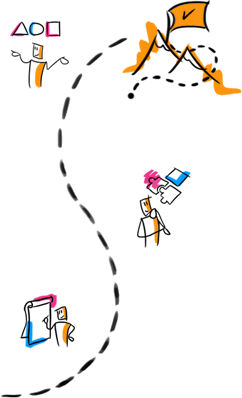
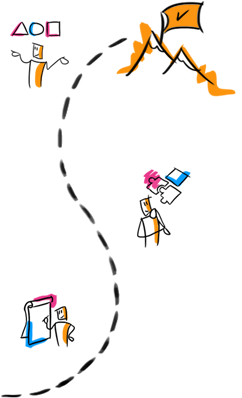
misc block css minor fixes

Changed region(s): [[0.4917, 0.0, 1.0, 0.2714], [0.7231, 0.2111, 0.8099, 0.2412]]

diff --git a/src/js/main.js b/src/js/main.js
@@ -3,9 +3,11 @@ import { initNavObserver, initMiscBlockObserver } from './animation/intersection
 import isMobileDevice from './helpers/checkMobile.js';
 import AOS from 'aos/dist/aos.js'
 
+initMiscBlockObserver();
+
 if (isMobileDevice()) {
   document.querySelector('.spinnerBackground').remove();
-  document.body.tabIndex = 0;
+  document.body.tabIndex = 0; // fix for IOS hover effect on tap
   AOS.init({ disable: 'mobile' });
 }
 else {
@@ -27,7 +29,6 @@ else {
     animationBox.classList.remove('animationOnloadDelay');
 
     initNavObserver();
-    initMiscBlockObserver();
     changeTitleColor();
 
     AOS.init({

diff --git a/src/scss/pages/_miscBlock.scss b/src/scss/pages/_miscBlock.scss
@@ -39,6 +39,7 @@
 .miscBlockFrame {
   display: flex;
   justify-content: center;
+  position: relative;
 }
 
 .mscLeftBox {
@@ -47,6 +48,7 @@
   justify-content: center;
   max-width: 50%;
   margin-right: 50px;
+  z-index: 1;
 
   .mscBlockTitle {
     margin-bottom: 25px;
@@ -62,6 +64,7 @@
   justify-content: center;
   align-items: center;
   max-width: 50%;
+  z-index: 1;
 }
 
 .miscBlockPaddings {

diff --git a/src/scss/animations/_miscBlockAnimation.scss b/src/scss/animations/_miscBlockAnimation.scss
@@ -6,12 +6,9 @@ $bgDelay: 3s;
 .miskBlockAnimationFrame {
   position: absolute;
   overflow: hidden;
-  // margin-top: -45px;
   min-height: $bgHeight;
-  // z-index: 55;
   top: 0;
   width: 100%;
-  pointer-events: none;
 }
 
 .miskBlockPinkLayer {
